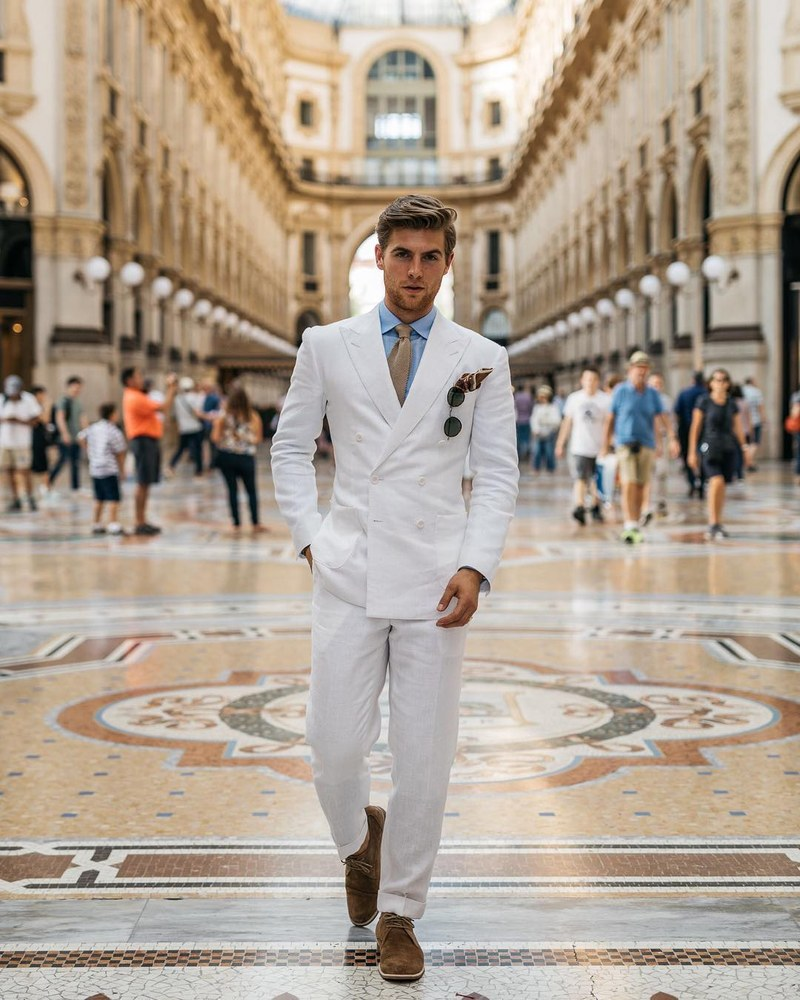
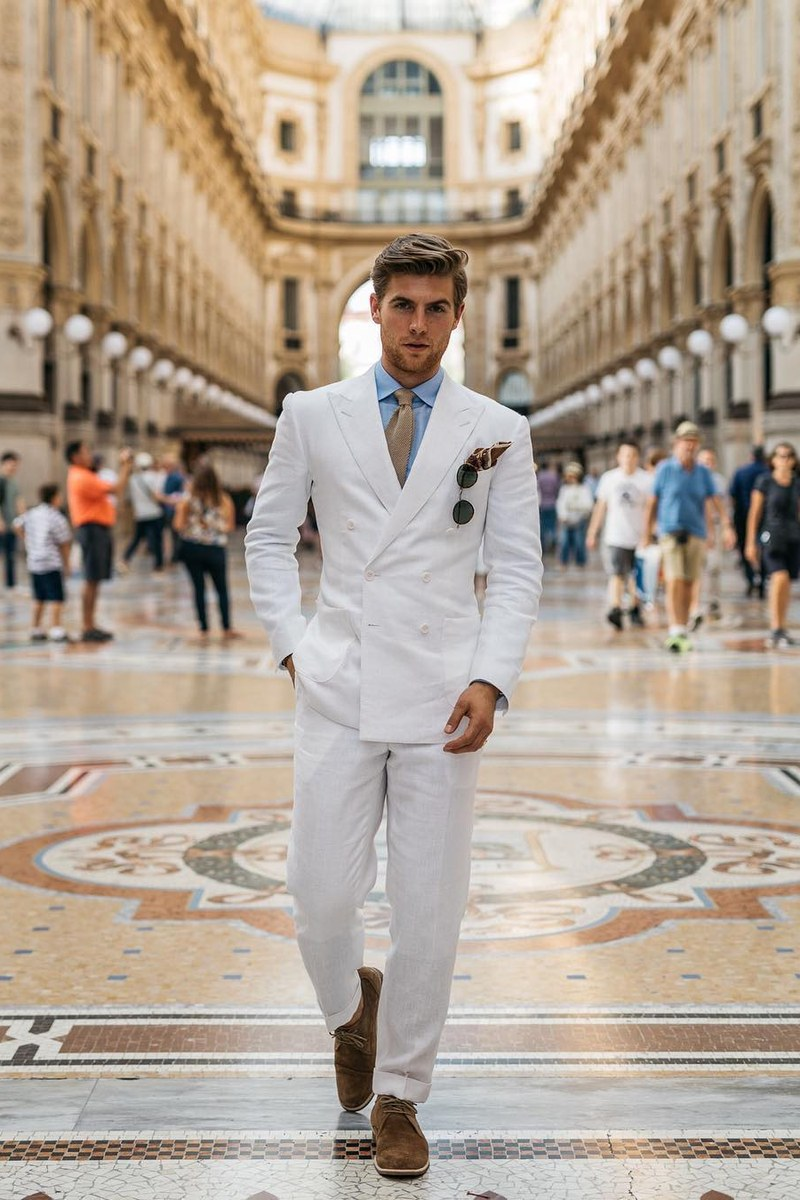
CNIT: consistent image system (full-width singles, matched pairs, rows of four)
Claude-Session: https://claude.ai/code/session_01VXDo3XZFgoZUnh3Wfa2kwx

diff --git a/work/cnit.html b/work/cnit.html
@@ -96,12 +96,6 @@
       <figcaption class="meta-label">Measuring, marking and fitting.</figcaption>
     </figure>
 
-    <figure class="cs-figure fig-pair narrow shape-tall">
-      <img src="../assets/img/cnit/milan-adp-800.jpg" srcset="../assets/img/cnit/milan-adp-800.jpg 800w, ../assets/img/cnit/milan-adp.jpg 1080w" sizes="(max-width: 600px) 50vw, 680px" width="1080" height="1350" alt="A model in a white double-breasted linen suit outside the Acqua di Parma boutique in Milan" loading="lazy">
-      <img src="../assets/img/cnit/milan-galleria-800.jpg" srcset="../assets/img/cnit/milan-galleria-800.jpg 800w, ../assets/img/cnit/milan-galleria.jpg 1080w" sizes="(max-width: 600px) 50vw, 680px" width="1080" height="1350" alt="The same white linen suit in Milan's Galleria Vittorio Emanuele II" loading="lazy">
-      <figcaption class="meta-label">A collaboration with Acqua di Parma, photographed in Milan.</figcaption>
-    </figure>
-
     <div class="cs-chapter">
       <p class="meta-label">03</p>
       <h2>Product and production</h2>
@@ -121,17 +115,12 @@
       <figcaption class="meta-label">In the workroom.</figcaption>
     </figure>
 
-    <figure class="cs-figure fig-tiles three shape-square">
+    <figure class="cs-figure fig-tiles four shape-square">
       <img src="../assets/img/cnit/canvas-800.jpg" srcset="../assets/img/cnit/canvas-800.jpg 800w, ../assets/img/cnit/canvas.jpg 1440w" sizes="(max-width: 600px) 50vw, 340px" width="1440" height="1440" alt="Hand-stitched canvas and chalk marks on navy cloth" loading="lazy">
       <img src="../assets/img/cnit/collar-800.jpg" srcset="../assets/img/cnit/collar-800.jpg 800w, ../assets/img/cnit/collar.jpg 1000w" sizes="(max-width: 600px) 50vw, 340px" width="1000" height="1000" alt="Shirt collars in black and white" loading="lazy">
       <img src="../assets/img/cnit/cuff-800.jpg" srcset="../assets/img/cnit/cuff-800.jpg 800w, ../assets/img/cnit/cuff.jpg 1440w" sizes="(max-width: 600px) 50vw, 340px" width="1440" height="1440" alt="A navy jacket cuff with working buttons" loading="lazy">
-      <figcaption class="meta-label">Canvas, collar and cuff.</figcaption>
-    </figure>
-
-    <figure class="cs-figure fig-pair shape-square">
-      <img src="../assets/img/cnit/cn-tie-800.jpg" srcset="../assets/img/cnit/cn-tie-800.jpg 800w, ../assets/img/cnit/cn-tie.jpg 1080w" sizes="(max-width: 600px) 50vw, 680px" width="1080" height="1080" alt="A striped grenadine tie with CN embroidered on the blade, among blue silk pocket squares" loading="lazy">
-      <img src="../assets/img/cnit/tie-swatches-800.jpg" srcset="../assets/img/cnit/tie-swatches-800.jpg 800w, ../assets/img/cnit/tie-swatches.jpg 1080w" sizes="(max-width: 600px) 50vw, 680px" width="1080" height="1080" alt="A rolled knitted tie on a card of silk swatches with handwritten codes" loading="lazy">
-      <figcaption class="meta-label">Own-label accessories, from silk swatch to finished tie.</figcaption>
+      <img src="../assets/img/cnit/cn-tie-800.jpg" srcset="../assets/img/cnit/cn-tie-800.jpg 800w, ../assets/img/cnit/cn-tie.jpg 1080w" sizes="(max-width: 600px) 50vw, 340px" width="1080" height="1080" alt="A striped grenadine tie with CN embroidered on the blade" loading="lazy">
+      <figcaption class="meta-label">Canvas, collar, cuff and the CN own-label tie.</figcaption>
     </figure>
 
     <div class="cs-chapter">
@@ -150,26 +139,24 @@
       </div>
     </section>
 
-    <figure class="cs-figure fig-single">
-      <img src="../assets/img/cnit/web-home-800.jpg" srcset="../assets/img/cnit/web-home-800.jpg 800w, ../assets/img/cnit/web-home.jpg 1600w" sizes="(max-width: 1440px) 100vw, 1360px" width="1600" height="650" alt="The carlnave.com.au home page: the Carl Navè logo over tailoring tools on navy velvet, with an invitation to book a free consultation" loading="lazy">
-      <figcaption class="meta-label">The carlnave.com.au home page, as archived.</figcaption>
-    </figure>
-
-    <figure class="cs-figure fig-single screen-narrow">
-      <img src="../assets/img/cnit/web-store-800.jpg" srcset="../assets/img/cnit/web-store-800.jpg 800w, ../assets/img/cnit/web-store.jpg 1600w" sizes="(max-width: 900px) 100vw, 860px" width="1600" height="1602" alt="The made-to-order online store, with jackets shown in navy, black and charcoal" loading="lazy">
-      <figcaption class="meta-label">The made-to-order online store, as archived.</figcaption>
-    </figure>
-
-    <figure class="cs-figure fig-pair narrow shape-tile">
-      <img src="../assets/img/cnit/wedding-velvet-800.jpg" srcset="../assets/img/cnit/wedding-velvet-800.jpg 800w, ../assets/img/cnit/wedding-velvet.jpg 1000w" sizes="(max-width: 600px) 50vw, 680px" width="1000" height="1500" alt="A groom in a black velvet dinner jacket and check trousers against a navy backdrop" loading="lazy">
-      <img src="../assets/img/cnit/wedding-check-800.jpg" srcset="../assets/img/cnit/wedding-check-800.jpg 800w, ../assets/img/cnit/wedding-check.jpg 1000w" sizes="(max-width: 600px) 50vw, 680px" width="1000" height="1500" alt="A groom in a grey check dinner jacket and black trousers against a navy backdrop" loading="lazy">
-      <figcaption class="meta-label">Wedding tailoring.</figcaption>
+    <figure class="cs-figure fig-tiles four shape-tile">
+      <img src="../assets/img/cnit/wedding-velvet-800.jpg" srcset="../assets/img/cnit/wedding-velvet-800.jpg 800w, ../assets/img/cnit/wedding-velvet.jpg 1000w" sizes="(max-width: 600px) 50vw, 340px" width="1000" height="1500" alt="A groom in a black velvet dinner jacket and check trousers against a navy backdrop" loading="lazy">
+      <img src="../assets/img/cnit/wedding-check-800.jpg" srcset="../assets/img/cnit/wedding-check-800.jpg 800w, ../assets/img/cnit/wedding-check.jpg 1000w" sizes="(max-width: 600px) 50vw, 340px" width="1000" height="1500" alt="A groom in a grey check dinner jacket against a navy backdrop" loading="lazy">
+      <img src="../assets/img/cnit/milan-adp-800.jpg" srcset="../assets/img/cnit/milan-adp-800.jpg 800w, ../assets/img/cnit/milan-adp.jpg 900w" sizes="(max-width: 600px) 50vw, 340px" width="900" height="1350" alt="A white double-breasted linen suit outside the Acqua di Parma boutique in Milan" loading="lazy">
+      <img src="../assets/img/cnit/milan-galleria-800.jpg" srcset="../assets/img/cnit/milan-galleria-800.jpg 800w, ../assets/img/cnit/milan-galleria.jpg 900w" sizes="(max-width: 600px) 50vw, 340px" width="900" height="1350" alt="The same white linen suit in Milan's Galleria Vittorio Emanuele II" loading="lazy">
+      <figcaption class="meta-label">Wedding tailoring, and a collaboration with Acqua di Parma photographed in Milan.</figcaption>
     </figure>
 
     <figure class="cs-figure fig-pair shape-square">
       <img src="../assets/img/cnit/ferrari-800.jpg" srcset="../assets/img/cnit/ferrari-800.jpg 800w, ../assets/img/cnit/ferrari.jpg 1080w" sizes="(max-width: 600px) 50vw, 680px" width="1080" height="1080" alt="Carl in a grey jacket beside a silver Ferrari in a dealership showroom" loading="lazy">
       <img src="../assets/img/cnit/zagame-800.jpg" srcset="../assets/img/cnit/zagame-800.jpg 800w, ../assets/img/cnit/zagame.jpg 1152w" sizes="(max-width: 600px) 50vw, 680px" width="1152" height="1152" alt="A Zagame Collection spread titled An Open Letter From a Melbourne Tailor" loading="lazy">
       <figcaption class="meta-label">With Zagame's Ferrari dealership, and a Zagame Collection feature, 2019.</figcaption>
+    </figure>
+
+    <figure class="cs-figure fig-pair shape-wide">
+      <img src="../assets/img/cnit/web-home-crop-800.jpg" srcset="../assets/img/cnit/web-home-crop-800.jpg 800w, ../assets/img/cnit/web-home-crop.jpg 1158w" sizes="(max-width: 600px) 50vw, 680px" width="1158" height="772" alt="The carlnave.com.au home page: the Carl Navè logo over tailoring tools on navy velvet, with an invitation to book a free consultation" loading="lazy">
+      <img src="../assets/img/cnit/web-store-crop-800.jpg" srcset="../assets/img/cnit/web-store-crop-800.jpg 800w, ../assets/img/cnit/web-store-crop.jpg 1920w" sizes="(max-width: 600px) 50vw, 680px" width="1920" height="1280" alt="The made-to-order online store page, introducing Italian made-to-order suits" loading="lazy">
+      <figcaption class="meta-label">The website and made-to-order online store, as archived.</figcaption>
     </figure>
 
     <div class="cs-chapter">

diff --git a/tools/build_pages.py b/tools/build_pages.py
@@ -699,10 +699,6 @@ def cnit():
         img(p, "hands", 1440, 1440, "Carl's hands holding tailoring shears and chalk, a tape measure hanging over his shirt"),
         img(p, "basted-jacket", 1440, 1440, "A basted navy jacket on a stand with a tape measure, ready for a fitting")],
         "Measuring, marking and fitting.")
-    b += figure("fig-pair narrow shape-tall", [
-        img(p, "milan-adp", 1080, 1350, "A model in a white double-breasted linen suit outside the Acqua di Parma boutique in Milan"),
-        img(p, "milan-galleria", 1080, 1350, "The same white linen suit in Milan's Galleria Vittorio Emanuele II")],
-        "A collaboration with Acqua di Parma, photographed in Milan.")
     b += chapter("03", "Product and production")
     b += block("production", "Product and production", ps([
         "Behind the customer experience sat a complex product and production operation, from fabric sourcing, design and technical specifications to manufacturing, fittings, alterations, quality control and delivery.",
@@ -711,15 +707,12 @@ def cnit():
     b += figure("fig-single shape-wide", [
         img(p, "sewing", 2400, 1600, "Carl at an industrial sewing machine by a window, a tape measure around his neck", WIDE)],
         "In the workroom.")
-    b += figure("fig-tiles three shape-square", [
+    b += figure("fig-tiles four shape-square", [
         img(p, "canvas", 1440, 1440, "Hand-stitched canvas and chalk marks on navy cloth", TILE4),
         img(p, "collar", 1000, 1000, "Shirt collars in black and white", TILE4),
-        img(p, "cuff", 1440, 1440, "A navy jacket cuff with working buttons", TILE4)],
-        "Canvas, collar and cuff.")
-    b += figure("fig-pair shape-square", [
-        img(p, "cn-tie", 1080, 1080, "A striped grenadine tie with CN embroidered on the blade, among blue silk pocket squares"),
-        img(p, "tie-swatches", 1080, 1080, "A rolled knitted tie on a card of silk swatches with handwritten codes")],
-        "Own-label accessories, from silk swatch to finished tie.")
+        img(p, "cuff", 1440, 1440, "A navy jacket cuff with working buttons", TILE4),
+        img(p, "cn-tie", 1080, 1080, "A striped grenadine tie with CN embroidered on the blade", TILE4)],
+        "Canvas, collar, cuff and the CN own-label tie.")
     b += chapter("04", "Growth, B2B and digital")
     b += block("growth", "Growth, B2B and digital", ps([
         "As the business developed, I expanded beyond private tailoring into corporate wardrobes, wedding tailoring, club blazers, uniforms, wholesale partnerships and white-label manufacturing.",
@@ -727,20 +720,20 @@ def cnit():
         "White-label production became an established revenue stream, generating around $500,000 a year during its established operating period.",
         "Online, I introduced e-commerce and made-to-order capability so customers could engage with the brand beyond the studio. CRM and communication processes supported appointments, customer records, referrals, follow-up and repeat business.",
         "Diversification let the business serve different needs while drawing on the same design, production and service capabilities."]), hidden=True)
-    b += figure("fig-single", [
-        img(p, "web-home", 1600, 650, "The carlnave.com.au home page: the Carl Navè logo over tailoring tools on navy velvet, with an invitation to book a free consultation", WIDE)],
-        "The carlnave.com.au home page, as archived.")
-    b += figure("fig-single screen-narrow", [
-        img(p, "web-store", 1600, 1602, "The made-to-order online store, with jackets shown in navy, black and charcoal", "(max-width: 900px) 100vw, 860px")],
-        "The made-to-order online store, as archived.")
-    b += figure("fig-pair narrow shape-tile", [
-        img(p, "wedding-velvet", 1000, 1500, "A groom in a black velvet dinner jacket and check trousers against a navy backdrop"),
-        img(p, "wedding-check", 1000, 1500, "A groom in a grey check dinner jacket and black trousers against a navy backdrop")],
-        "Wedding tailoring.")
+    b += figure("fig-tiles four shape-tile", [
+        img(p, "wedding-velvet", 1000, 1500, "A groom in a black velvet dinner jacket and check trousers against a navy backdrop", TILE4),
+        img(p, "wedding-check", 1000, 1500, "A groom in a grey check dinner jacket against a navy backdrop", TILE4),
+        img(p, "milan-adp", 900, 1350, "A white double-breasted linen suit outside the Acqua di Parma boutique in Milan", TILE4),
+        img(p, "milan-galleria", 900, 1350, "The same white linen suit in Milan's Galleria Vittorio Emanuele II", TILE4)],
+        "Wedding tailoring, and a collaboration with Acqua di Parma photographed in Milan.")
     b += figure("fig-pair shape-square", [
         img(p, "ferrari", 1080, 1080, "Carl in a grey jacket beside a silver Ferrari in a dealership showroom"),
         img(p, "zagame", 1152, 1152, "A Zagame Collection spread titled An Open Letter From a Melbourne Tailor")],
         "With Zagame's Ferrari dealership, and a Zagame Collection feature, 2019.")
+    b += figure("fig-pair shape-wide", [
+        img(p, "web-home-crop", 1158, 772, "The carlnave.com.au home page: the Carl Navè logo over tailoring tools on navy velvet, with an invitation to book a free consultation"),
+        img(p, "web-store-crop", 1920, 1280, "The made-to-order online store page, introducing Italian made-to-order suits")],
+        "The website and made-to-order online store, as archived.")
     b += chapter("05", "Leading the business")
     b += block("leading", "Leading the business", ps([
         "As founder, I was responsible for the business as a whole. I built and led a team of up to eight across tailoring, sales, production, administration and marketing.",

diff --git a/tools/process_images.py b/tools/process_images.py
@@ -101,12 +101,11 @@ JOBS = [
     ("cnit-consult-table.jpg", "cnit", "consult-table", "square", 0.5, 0.5),
     ("cnit-ferrari.jpg", "cnit", "ferrari", "square", 0.5, 0.5),
     ("cnit-cn-tie.jpg", "cnit", "cn-tie", "square", 0.5, 0.5),
-    ("cnit-tie-swatches.jpg", "cnit", "tie-swatches", "square", 0.5, 0.5),
-    ("cnit-milan-adp.jpg", "cnit", "milan-adp", "tall", 0.5, 0.5),
-    ("cnit-milan-galleria.jpg", "cnit", "milan-galleria", "tall", 0.5, 0.5),
+    ("cnit-milan-adp.jpg", "cnit", "milan-adp", "tile", 0.5, 0.5),
+    ("cnit-milan-galleria.jpg", "cnit", "milan-galleria", "tile", 0.5, 0.5),
     ("cnit-carl-teal.jpg", "cnit", "carl-teal", "square", 0.5, 0.5),
-    ("cnit-web-home.png", "cnit", "web-home", None, 0.5, 0.5),
-    ("cnit-web-store.png", "cnit", "web-store", None, 0.5, 0.5),
+    ("cnit-web-home.png", "cnit", "web-home-crop", "wide", 0.5, 0.5),
+    ("cnit-web-store.png", "cnit", "web-store-crop", "wide", 0.5, 0.0),
 ]
 
 
